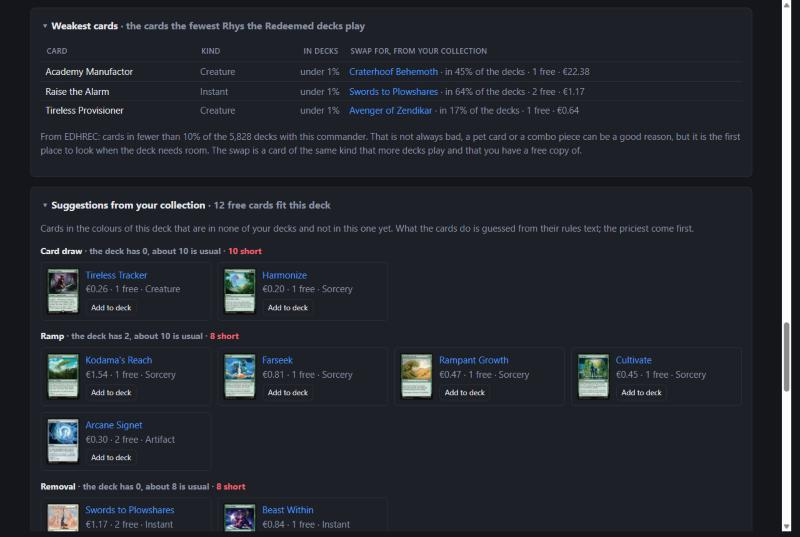
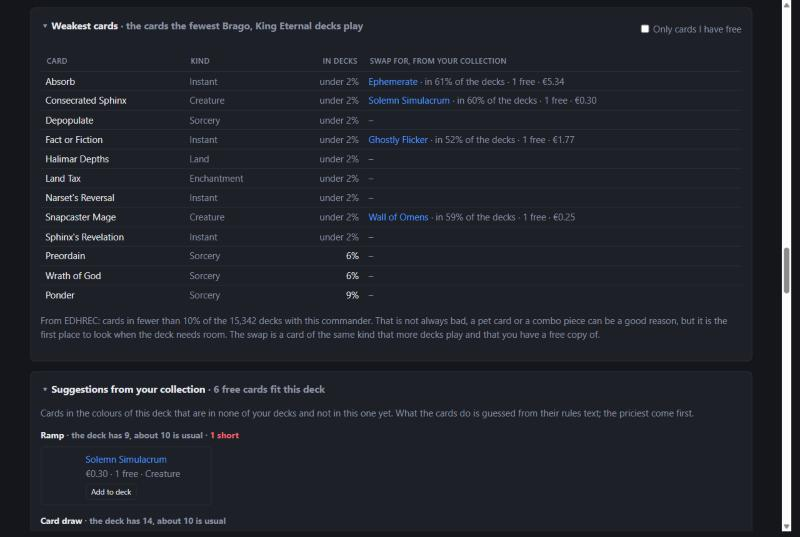
Weakest cards: "Only cards I have free"
- The weakest cards of a deck can be narrowed to the ones you have a better free card for
- README: screenshots of the weakest cards with and without it

diff --git a/app/templates/deck.html b/app/templates/deck.html
@@ -518,13 +518,16 @@
 
 {% if weakest is defined and weakest is not none %}
 <div class="panel weakest-panel">
-  <h2>Weakest cards <span class="muted">· the cards the fewest {{ edhrec.commander }} decks play</span></h2>
+  <div class="toolbar panel-head">
+    <h2>Weakest cards <span class="muted">· the cards the fewest {{ edhrec.commander }} decks play</span></h2>
+    {% if weakest %}<label class="check muted" title="Only the weak cards you have a better card for in your collection"><input type="checkbox" id="weakest-mine">&nbsp;Only cards I have free</label>{% endif %}
+  </div>
   {% if weakest %}
-  <table class="compact">
+  <table class="compact weakest-table">
     <thead><tr><th>Card</th><th>Kind</th><th class="num" title="How many of the decks with this commander play it">In decks</th><th>Swap for, from your collection</th></tr></thead>
     <tbody>
     {% for w in weakest %}
-    <tr>
+    <tr data-swap="{{ 1 if w.swap else 0 }}">
       <td>{{ w.name }}</td>
       <td class="muted">{{ w.kind or '' }}</td>
       <td class="num">{% if w.inclusion is none %}<span class="muted" title="Not among the cards EDHREC lists for this commander">under {{ edhrec_floor }}%</span>{% else %}{{ w.inclusion }}%{% endif %}</td>
@@ -534,6 +537,7 @@
     {% endfor %}
     </tbody>
   </table>
+  <p class="muted" id="weakest-none" hidden>None of these weak cards has a better card of the same kind in your collection.</p>
   <p class="muted small">From EDHREC: cards in fewer than 10% of the {{ '{:,}'.format(edhrec.decks) }} decks with this commander. That is not always bad, a pet card or a combo piece can be a good reason,
     but it is the first place to look when the deck needs room. The swap is a card of the same kind that more decks play and that you have a free copy of.</p>
   {% else %}
@@ -1113,6 +1117,24 @@
     });
     if (more) more.addEventListener("click", () => { all = true; more.hidden = true; showEdhrec(); });
     showEdhrec();
+  }
+
+  // Weakest cards: optionally only the ones you have a free card to swap in for.
+  const weakMine = document.getElementById("weakest-mine");
+  if (weakMine) {
+    const weakRows = [...document.querySelectorAll(".weakest-table tbody tr")];
+    const showWeak = () => {
+      for (const row of weakRows) row.hidden = weakMine.checked && row.dataset.swap !== "1";
+      const none = weakMine.checked && !weakRows.some((row) => row.dataset.swap === "1");
+      document.getElementById("weakest-none").hidden = !none;
+      document.querySelector(".weakest-table").hidden = none;
+    };
+    try { weakMine.checked = localStorage.getItem("weakest-mine") === "1"; } catch (error) {}
+    weakMine.addEventListener("change", () => {
+      try { localStorage.setItem("weakest-mine", weakMine.checked ? "1" : "0"); } catch (error) {}
+      showWeak();
+    });
+    showWeak();
   }
 </script>
 {% endblock %}

diff --git a/tests/test_table_extras.py b/tests/test_table_extras.py
@@ -74,7 +74,8 @@ def test_weakest_cards(client):
     assert weak["Fire // Ice"]["swap"] == {"name": "Lim-Dûl's Vault", "inclusion": 30, "free": 1}
     assert weak["Time Warp"]["swap"] is None
     page = client.get(f"/decks/{deck['id']}").text
-    assert "Weakest cards" in page and "under 12%" in page
+    assert "Weakest cards" in page and "under 12%" in page and 'id="weakest-mine"' in page
+    assert '<tr data-swap="1">' in page and '<tr data-swap="0">' in page
 
 
 # --- the live table --------------------------------------------------------------------------------

diff --git a/README.md b/README.md
@@ -83,6 +83,8 @@ price.
 
 ![The weakest cards of a deck: the cards the fewest decks with its commander play, each with a more popular card of the same kind from your collection to swap in](docs/deck-weakest.jpg)
 
+![Weakest cards with "Only cards I have free": only the weak cards you have a better card for in your collection](docs/deck-weakest-free.jpg)
+
 ![Typing ahead: card names from Scryfall as you type, with a picture of the highlighted one](docs/autocomplete.jpg)
 
 ![Suggestions from your collection: free cards in the deck's colours, grouped by what the deck is short of](docs/deck-suggestions.jpg)
@@ -185,7 +187,7 @@ price.
 - Game log: log a game from the Games page or from a deck (date, players, who you played against and their commanders, who won, notes). Every deck shows how often it was played, its win rate and when it was last played
 - Live table for game night (made for an iPad on the table): life, poison and commander damage per player, whose turn it is and the round, undo, full screen, and the screen stays on. Players are out at 0 life, 10 poison or 21 commander damage; the top row can be turned upside down for the players across. At the end you pick the winner and the game goes into the log with everyone and their commanders. A game in progress survives a reload
 - The commanders of your opponents: fill them in when you log a game (the one a player used last time is filled in). The Games page shows the commanders each player plays and your results against every commander
-- Weakest cards per deck: the cards the fewest decks with its commander play on EDHREC (under 10%), each with a more popular card of the same kind from your collection to swap in
+- Weakest cards per deck: the cards the fewest decks with its commander play on EDHREC (under 10%), each with a more popular card of the same kind from your collection to swap in. "Only cards I have free" shows just the ones you can swap right away
 - Game statistics: your win rate, current streak and longest winning streak, games per month, win rates by table size (next to your fair share), deck colour and bracket, and per opponent, with the player who beats you most as your nemesis
 - Bracket check per deck: Game Changers (the official list, from Scryfall), mass land denial, extra turns and two-card infinite combos, against the bracket you set. A deck that does not fit gets a ⚠ in the list of decks
 - Combos per deck from Commander Spellbook: the combos in the deck and what they do, and the combos it is one card away from, marked when you own that card
